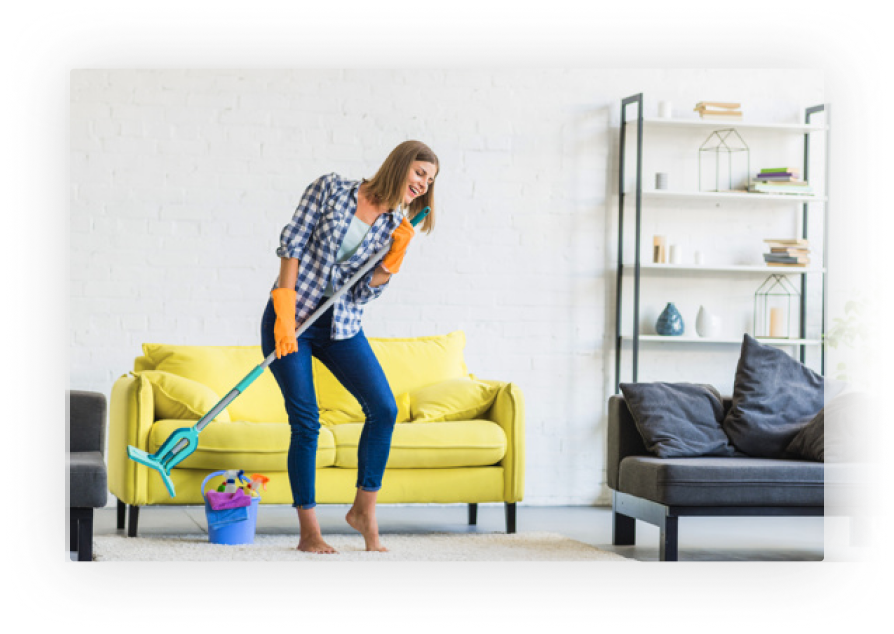
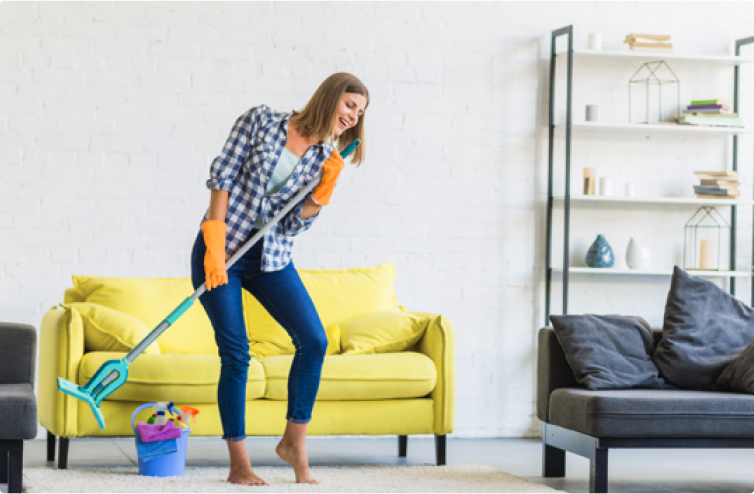
add some styles header and first screen

diff --git a/src/index.html b/src/index.html
@@ -7,6 +7,7 @@
         <script src="http://html5shiv.googlecode.com/svn/trunk/html5.js"></script>
         <![endif]-->
         <link rel="stylesheet" href="index.css">
+        <link rel="stylesheet" href="https://cdnjs.cloudflare.com/ajax/libs/normalize/8.0.1/normalize.css">
         <link href="https://fonts.googleapis.com/css?family=Montserrat:300,400,600,700&display=swap" rel="stylesheet">
     </head>
     <body>
@@ -20,23 +21,23 @@
                                     <nav class="menu">
                                         <ul class="menu__list">
                                             <li class="menu__item">
-                                                <a href="" class="menu__link">Home</a>
+                                                <a href="" class="menu__link text">Home</a>
                                             </li>
                                             <li class="menu__item">
-                                                <a href="" class="menu__link">Company</a>
+                                                <a href="" class="menu__link text">Company</a>
                                             </li>
                                             <li class="menu__item">
-                                                <a href="" class="menu__link">About</a>
+                                                <a href="" class="menu__link text">About</a>
                                             </li>
                                             <li class="menu__item">
-                                                <a href="" class="menu__link">Contact</a>
+                                                <a href="" class="menu__link text">Contact</a>
                                             </li>
                                         </ul>
                                     </nav>
                                 </div>
                                 <div class="header__right-content">
                                     <div class="header__phone">
-                                        <p class="header__phone-text">+ 515 243 3273</p>
+                                        <p class="header__phone-text">+&nbsp;515&nbsp;243&nbsp;3273</p>
                                     </div>
                                     <a href="" class="button button_solid">button</a>
                                 </div>
@@ -51,37 +52,36 @@
                         <div class="first-screen__wrapper">
                             <div class="container">
                                 <div class="first-screen__inner">
-                                    <div class="first-screen__left-content">
-                                        <div class="menu menu_vertical">
+                                    <div class="menu menu_vertical">
+                                        <div class="menu__inner">
                                             <ul class="menu__list">
                                                 <li class="menu__item">
-                                                    <a href="" class="menu__link">Facebook</a>
+                                                    <a href="" class="menu__link text">Facebook</a>
                                                 </li>
                                                 <li class="menu__item">
-                                                    <a href="" class="menu__link">Twitter</a>
+                                                    <a href="" class="menu__link text">Twitter</a>
                                                 </li>
                                                 <li class="menu__item">
-                                                    <a href="" class="menu__link">Dribbble</a>
+                                                    <a href="" class="menu__link text">Dribbble</a>
                                                 </li>
                                                 <li class="menu__item">
-                                                    <a href="" class="menu__link">Instagram</a>
+                                                    <a href="" class="menu__link text">Instagram</a>
                                                 </li>
                                             </ul>
                                         </div>
-                                        <div class="first-screen__text-box">
-                                            <h1 class="heading heading_size-l heading_dark">
+                                    </div>
+                                    <div class="first-screen__content">
+                                        <div class="first-screen__textbox">
+                                            <h1 class="heading heading_size_l heading_dark">
                                                 Professional cleaning<br />service
                                             </h1>
-                                            <p class="text text_dark">
+                                            <p class="text text_dark first-screen__text">
                                                 Corporate social responsibility policymaker inclusion, resist; compassion mass incarceration correlation white paper
                                             </p>
                                             <a class="arrow-link" href="" alt="Joing us!">
                                                 <img class="img" src="./images/arrow.png" />
                                             </a>
                                         </div>
-                                    </div>
-                                    <div class="first-screen__right-content">
-                                        <img class="img" src="./images/first-screen/first-screen-img.png" alt="Professional cleaning service" />
                                     </div>
                                 </div>
                             </div>
@@ -97,7 +97,7 @@
                                         <h2 class="heading heading_size_l heading_dark">
                                             Reasons to Choose Us
                                         </h2>
-                                        <p class="text text_dark">
+                                        <p class="text text_dark reasons__text">
                                             Behind our commitment to excellence are few key attributes that define who we are and what makes us different from any other.
                                         </p>
                                     </div>
@@ -332,7 +332,7 @@
                                 </div>
                                 <form class="contact__form" action="">
                                     <div class="contact__form-inner">
-                                        <input type="email" name="email" id="email">
+                                        <input type="email" name="email" id="email" placeholder="E-mail">
                                         <button class="contact__button" type="submit">
                                             <img class="contact__button-img" src="./images/arrow.png">
                                         </button>
@@ -342,13 +342,13 @@
                                     <nav class="menu">
                                         <ul class="menu__list">
                                             <li class="menu__item">
-                                                <a href="" class="menu__link">Home</a>
+                                                <a href="" class="menu__link text">Home</a>
                                             </li>
                                             <li class="menu__item">
-                                                <a href="" class="menu__link">Company</a>
+                                                <a href="" class="menu__link text">Company</a>
                                             </li>
                                             <li class="menu__item">
-                                                <a href="" class="menu__link">About</a>
+                                                <a href="" class="menu__link text">About</a>
                                             </li>
                                         </ul>
                                     </nav>

diff --git a/src/scss/first-screen.scss b/src/scss/first-screen.scss
@@ -1,0 +1,62 @@
+.first-screen{
+    &__wrapper{
+    padding: 165px 0 0 0;
+    position: relative;
+    height: 820px;
+    background-image: url(../images/first-screen/first-screen-bg.png);
+    }
+    &__inner{
+        background-image: url(../images/first-screen/first-screen-img.png);
+        background-repeat: no-repeat;
+        background-position: right top;
+        height: 495px;
+        @media (max-width: 650px){
+            height: auto;
+        }
+    }
+    &__content{
+        max-width: 620px;
+        padding: 100px 0 0 100px;
+        @media (max-width: 650px){
+            width: 100%;
+            margin: 0 auto;
+            padding: 0;
+        }
+    }
+    &__textbox{
+        background-color: rgba(255, 255, 255, 0.5);
+        padding: 25px 25px 25px 25px;
+        @media (min-width: 650px){
+            border-radius: 0 200px 0 0;
+        }
+    }
+    &__text{
+        font-weight: 300;
+        letter-spacing: -1px;
+        line-height: 30px;
+        padding: 40px 0 35px;
+    }
+}
+.menu.menu_vertical{
+    position: absolute;
+    width: 335px;
+    height: 25px;
+    transform-origin:left top;
+    transform: rotate(-90deg);
+    top: 575px;
+    background-color: rgba(255, 255, 255, 0.5);
+    @media (max-width: 650px){
+        position: relative;
+        width: 100%;
+        margin: 0 auto;
+        height: 25px;
+        top:0;
+        transform: rotate(0deg);
+        text-align: center;
+    }
+    .menu__inner{
+        @media (max-width: 650px){
+            display: inline-block;
+        }
+    }
+}

diff --git a/src/scss/header.scss b/src/scss/header.scss
@@ -1,2 +1,27 @@
-@import "variables";
-.test{background-color: red;}
+.header{
+    &__wrapper{
+    position:absolute;
+    margin: 0 auto;
+    right: 0;
+    left: 0;
+    z-index: 1;
+    }
+    &__inner{
+        display: flex;
+        padding: 40px 0 0 0;
+        width: 100%;
+    }
+    &__left-content{
+        align-self: center;
+    }
+    &__right-content{
+        display: flex;
+        margin-left:auto;
+        align-items: center;
+    }
+    &__phone-text{
+        margin: 0 20px 0 0;
+        font-size: 1.2em;
+        letter-spacing: -1px;
+    }
+}

diff --git a/src/scss/blocks/menu.scss b/src/scss/blocks/menu.scss
@@ -1,0 +1,21 @@
+@import "../variables.scss";
+@import "../mixins.scss";
+.menu{
+    &__list{
+        overflow: hidden;
+        list-style: none;
+        display:flex;
+        padding: 0;
+        margin: 0;
+    }
+    &__link{
+        display: block;
+        text-decoration: none;
+        padding: 5px 7px;
+        &:hover{
+            color:$btn-solid-text-color;
+            background-color: $btn-solid-color;
+            border-radius: 13px;
+            }
+    }
+}

diff --git a/gulpfile.js b/gulpfile.js
@@ -11,7 +11,6 @@ var gulp = require("gulp"),
 var paths = {
     styles: {
     src: "./src/scss/**/*.scss",
-    dontProcess: "!./src/scss/variables.scss"
     },
     htmlFiles: {
     srcHTML: "./src/**/*.html",
@@ -26,7 +25,7 @@ var paths = {
 
 function style() {
 return gulp
-    .src([paths.styles.src, paths.styles.dontProcess])
+    .src(paths.styles.src)
     .pipe(sourcemaps.init())
     .pipe(sass({
         includePaths: require('node-normalize-scss').includePaths

diff --git a/src/scss/global.scss b/src/scss/global.scss
@@ -1,9 +1,25 @@
 @import "normalize";
+@import "./variables.scss";
+@import "./mixins.scss";
 *{
     box-sizing: border-box;
 }
 body{
     font-family: Montserrat, Helvetica, sans-serif;
+}
+.text{
+    font-size:$text-size;
+    color:$txt-dark-color;
+    margin: 0;
+}
+.heading{
+    font-weight: bold;
+    letter-spacing: -1px;
+    margin: 0;
+    color:$txt-dark-color;
+}
+.heading_size_l{
+    font-size: $heading-size-l;
 }
 .main-wrapper {
     position: relative;

diff --git a/src/scss/blocks/button.scss b/src/scss/blocks/button.scss
@@ -1,0 +1,17 @@
+@import "../variables.scss";
+.button{
+    display: inline-block;
+    position: relative;
+    text-transform: uppercase;
+    text-decoration: none;
+    font-weight: bold;
+    font-size: 10px;
+    letter-spacing: 1px;
+    &_solid{
+        text-align: center;
+        color:$btn-solid-text-color;
+        background-color: $btn-solid-color;
+        padding: 14px 55px;
+        border-radius: 20px;
+    }
+}

diff --git a/src/scss/reasons.scss b/src/scss/reasons.scss
@@ -1,0 +1,9 @@
+.reasons__inner{
+    height: 715px;
+    max-width: 950px;
+    margin: 0 auto;
+    &__text{
+        padding: 15px 0 50px 0;
+    }
+}
+.reasons__text{padding: 15px 0 50px 0;}

diff --git a/src/scss/variables.scss b/src/scss/variables.scss
@@ -1,0 +1,8 @@
+//Colors
+$btn-solid-color: #70D775;
+$btn-solid-text-color: #FFFFFF;
+$txt-dark-color: #212121;
+
+//sizes
+$text-size: 14px;
+$heading-size-l: 36px;
